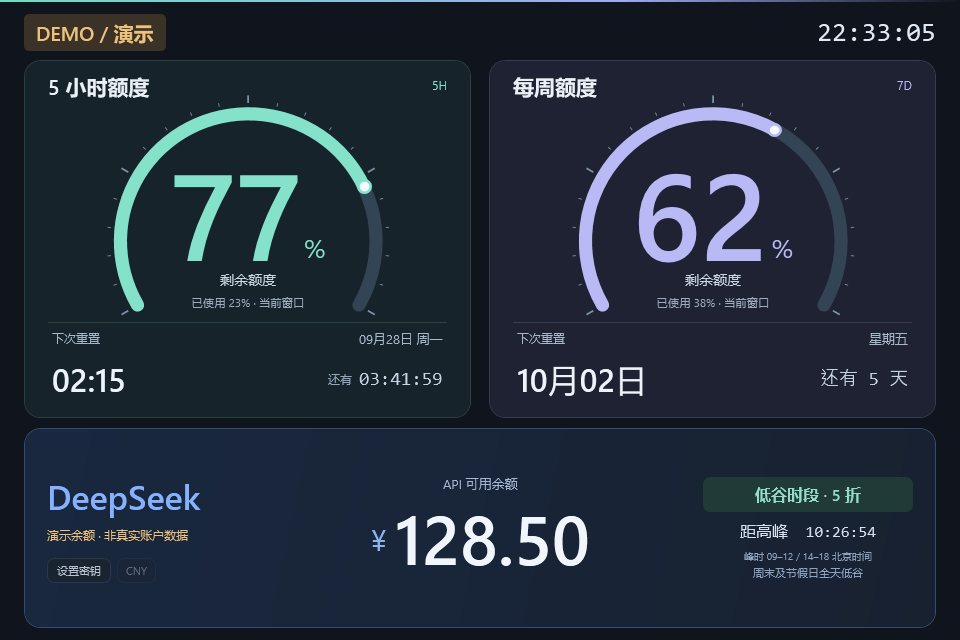
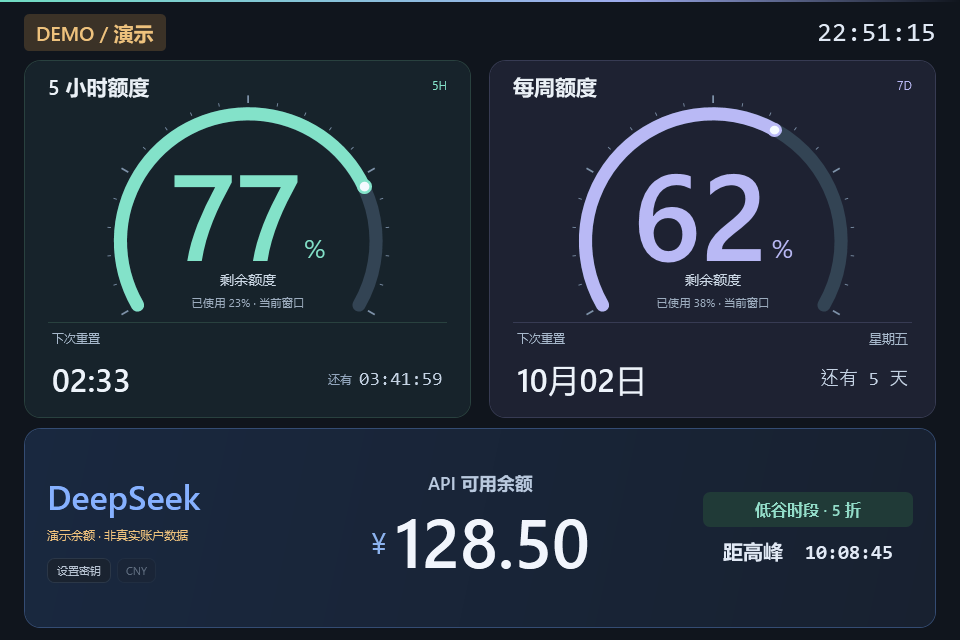
Refine quota card and DeepSeek labels

diff --git a/Dashboard.xaml b/Dashboard.xaml
@@ -67,7 +67,7 @@
               <Border Grid.Row="2" BorderBrush="#29413F" BorderThickness="0,1,0,0" Padding="4,7,4,0">
                 <Grid><Grid.RowDefinitions><RowDefinition Height="21"/><RowDefinition Height="*"/></Grid.RowDefinitions>
                   <TextBlock Text="下次重置" FontSize="12" Foreground="#A7B8CB"/>
-                  <TextBlock x:Name="ShortResetDate" Text="本地时间" FontSize="13" Foreground="#A7B8CB" HorizontalAlignment="Right"/>
+                  <TextBlock x:Name="ShortResetDate" Visibility="Collapsed"/>
                   <TextBlock x:Name="ShortReset" Grid.Row="1" Text="--" FontSize="32" FontWeight="Medium" Foreground="#EDF3FA" VerticalAlignment="Center"/>
                   <StackPanel Grid.Row="1" Orientation="Horizontal" HorizontalAlignment="Right" VerticalAlignment="Center">
                     <TextBlock x:Name="ShortCountdownLead" Text="还有" FontSize="12" Foreground="#93A6BD" VerticalAlignment="Center" Margin="0,0,7,0"/>
@@ -112,15 +112,13 @@
               <StackPanel Orientation="Horizontal" Margin="0,15,0,0"><Button x:Name="DsSetupButton" Content="设置密钥" FontSize="11" Padding="9,4"/><Button x:Name="DsCurrencyButton" Content="--" FontSize="11" Padding="8,4" Margin="6,0,0,0" ToolTip="多个币种时切换"/></StackPanel>
             </StackPanel>
             <StackPanel Grid.Column="1" VerticalAlignment="Center" HorizontalAlignment="Center">
-              <TextBlock Text="API 可用余额" FontSize="13" Foreground="#A6B8D1" HorizontalAlignment="Center"/>
+              <TextBlock Text="API 可用余额" FontSize="18" FontWeight="SemiBold" Foreground="#B9C9DE" HorizontalAlignment="Center"/>
               <Viewbox Stretch="Uniform" StretchDirection="DownOnly" MaxWidth="405" HorizontalAlignment="Center"><StackPanel Orientation="Horizontal"><TextBlock x:Name="DsSymbol" Text="" FontSize="29" Foreground="#8CB3EF" VerticalAlignment="Center" Margin="0,5,8,0"/><TextBlock x:Name="DsTotal" Text="--" FontSize="68" FontWeight="SemiBold" Foreground="#F1F5FC"/></StackPanel></Viewbox>
               <TextBlock x:Name="DsSync" Visibility="Collapsed" Text="等待同步" Foreground="#829ABF" FontSize="11" HorizontalAlignment="Center"/>
             </StackPanel>
             <StackPanel Grid.Column="2" VerticalAlignment="Center" Margin="10,0,0,0">
               <Border x:Name="DsTariffBadge" Background="#203A37" CornerRadius="7" Padding="10,7"><TextBlock x:Name="DsTariffTitle" Text="正在计算计价时段" FontSize="16" FontWeight="SemiBold" Foreground="#93DDC9" HorizontalAlignment="Center"/></Border>
-              <TextBlock x:Name="DsTariffNext" Text="" FontSize="16" FontFamily="Consolas, Microsoft YaHei UI" Foreground="#D6E1EF" Margin="0,10,0,0" HorizontalAlignment="Center"/>
-              <TextBlock Text="峰时 09–12 / 14–18 北京时间" FontSize="10" Foreground="#8EA3BF" Margin="0,8,0,0" HorizontalAlignment="Center"/>
-              <TextBlock Text="周末及节假日全天低谷" FontSize="11" Foreground="#8EA3BF" Margin="0,3,0,0" HorizontalAlignment="Center"/>
+              <TextBlock x:Name="DsTariffNext" Text="" FontSize="20" FontWeight="SemiBold" FontFamily="Consolas, Microsoft YaHei UI" Foreground="#E1E9F5" Margin="0,14,0,0" HorizontalAlignment="Center"/>
             </StackPanel>
           </Grid>
         </Border>

diff --git a/VERIFICATION.md b/VERIFICATION.md
@@ -47,3 +47,10 @@ powershell.exe -NoProfile -STA -ExecutionPolicy Bypass -File .\Monitor.ps1 -Demo
 - 960×640 演示及实际账户截图已检查，标题/状态行/底栏隐藏，标识放大，右键菜单保留操作。
 - EXE 自检与副屏界面冒烟测试通过；中文含空格路径启动通过。
 - 耗尽暂停规则按模拟时间验证，未等待真实账户数日后的重置。
+
+## 2026-09-27 界面精简更新
+
+- 隐藏 5 小时卡片右上角的重置日期，仅保留重置时刻和倒计时。
+- 删除 DeepSeek 峰谷时段说明小字，放大“API 可用余额”和峰谷倒计时。
+- 960×640 演示及真实数据渲染已检查，动态金额和倒计时未超出区域。
+- 全部 101 项本地断言通过。
